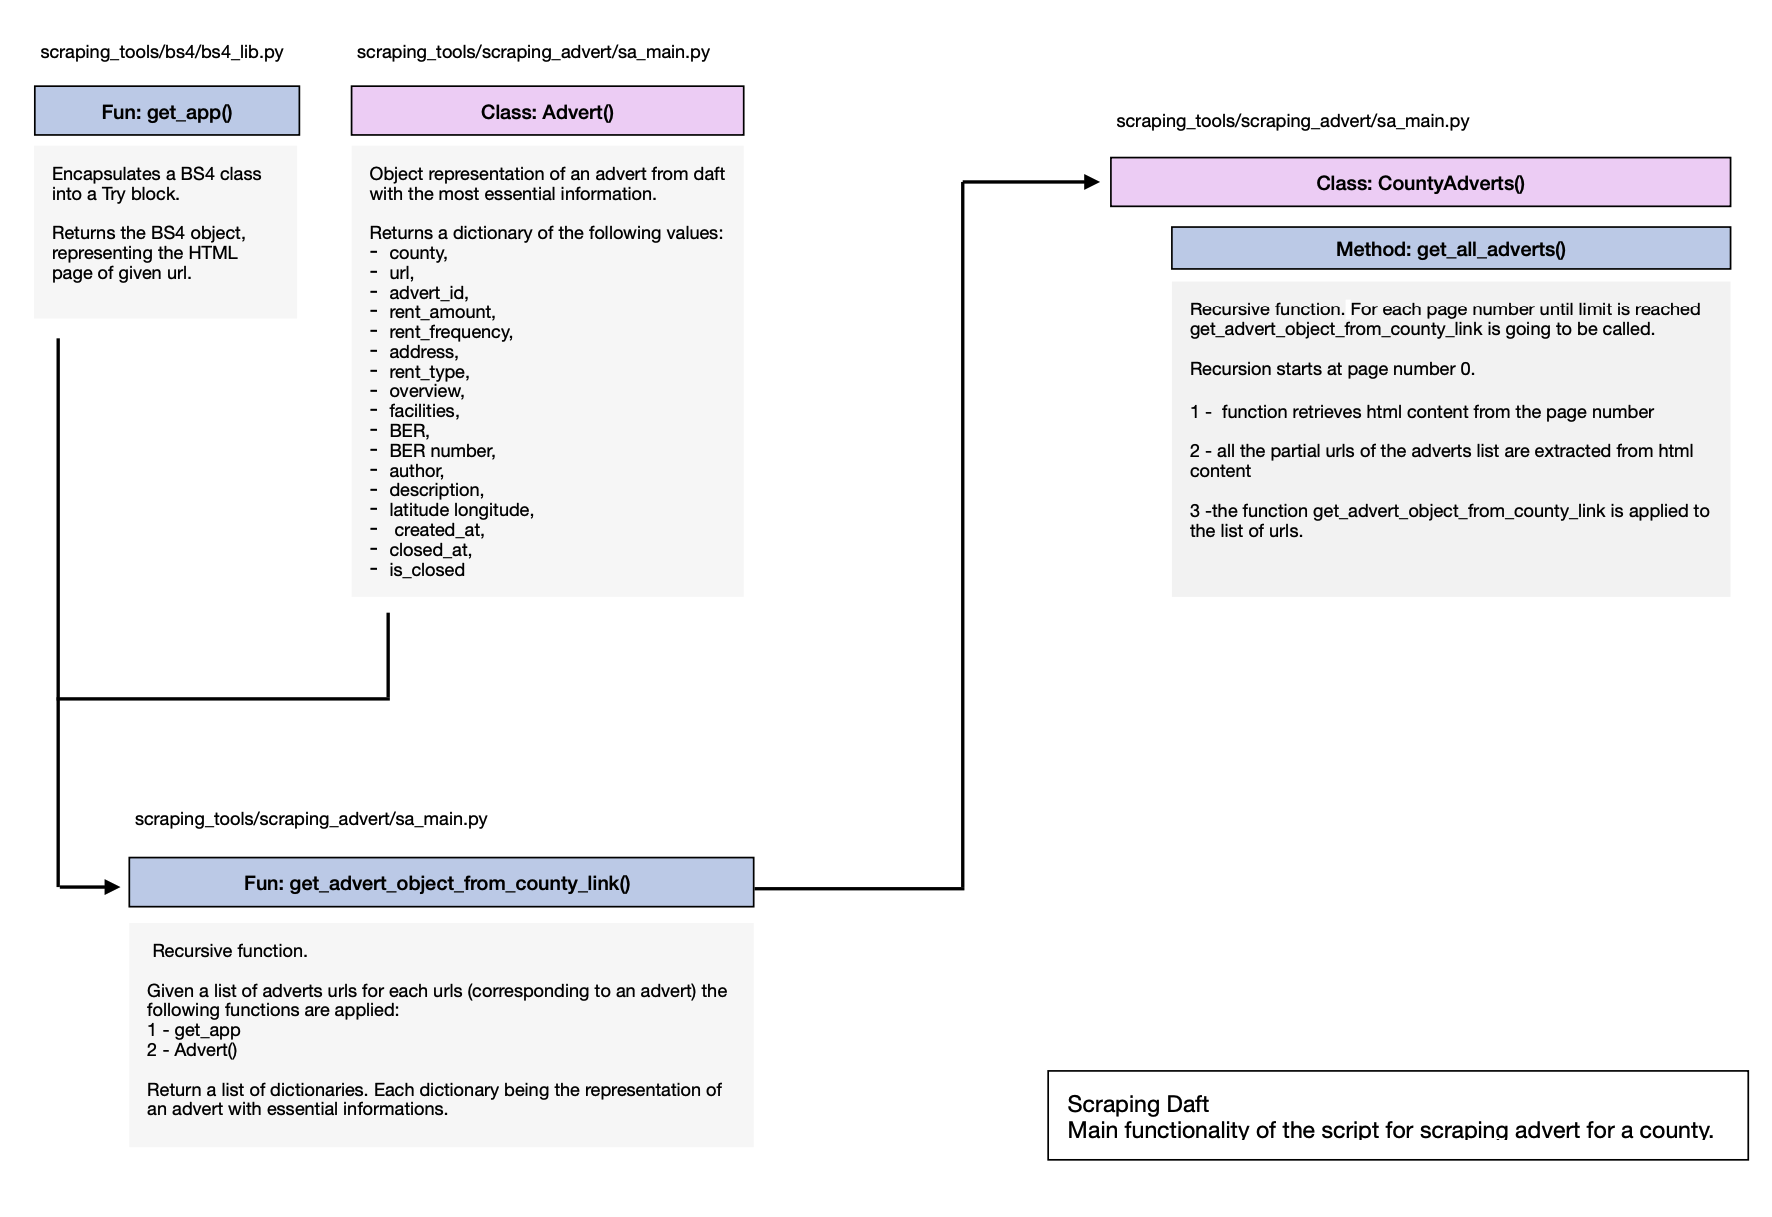
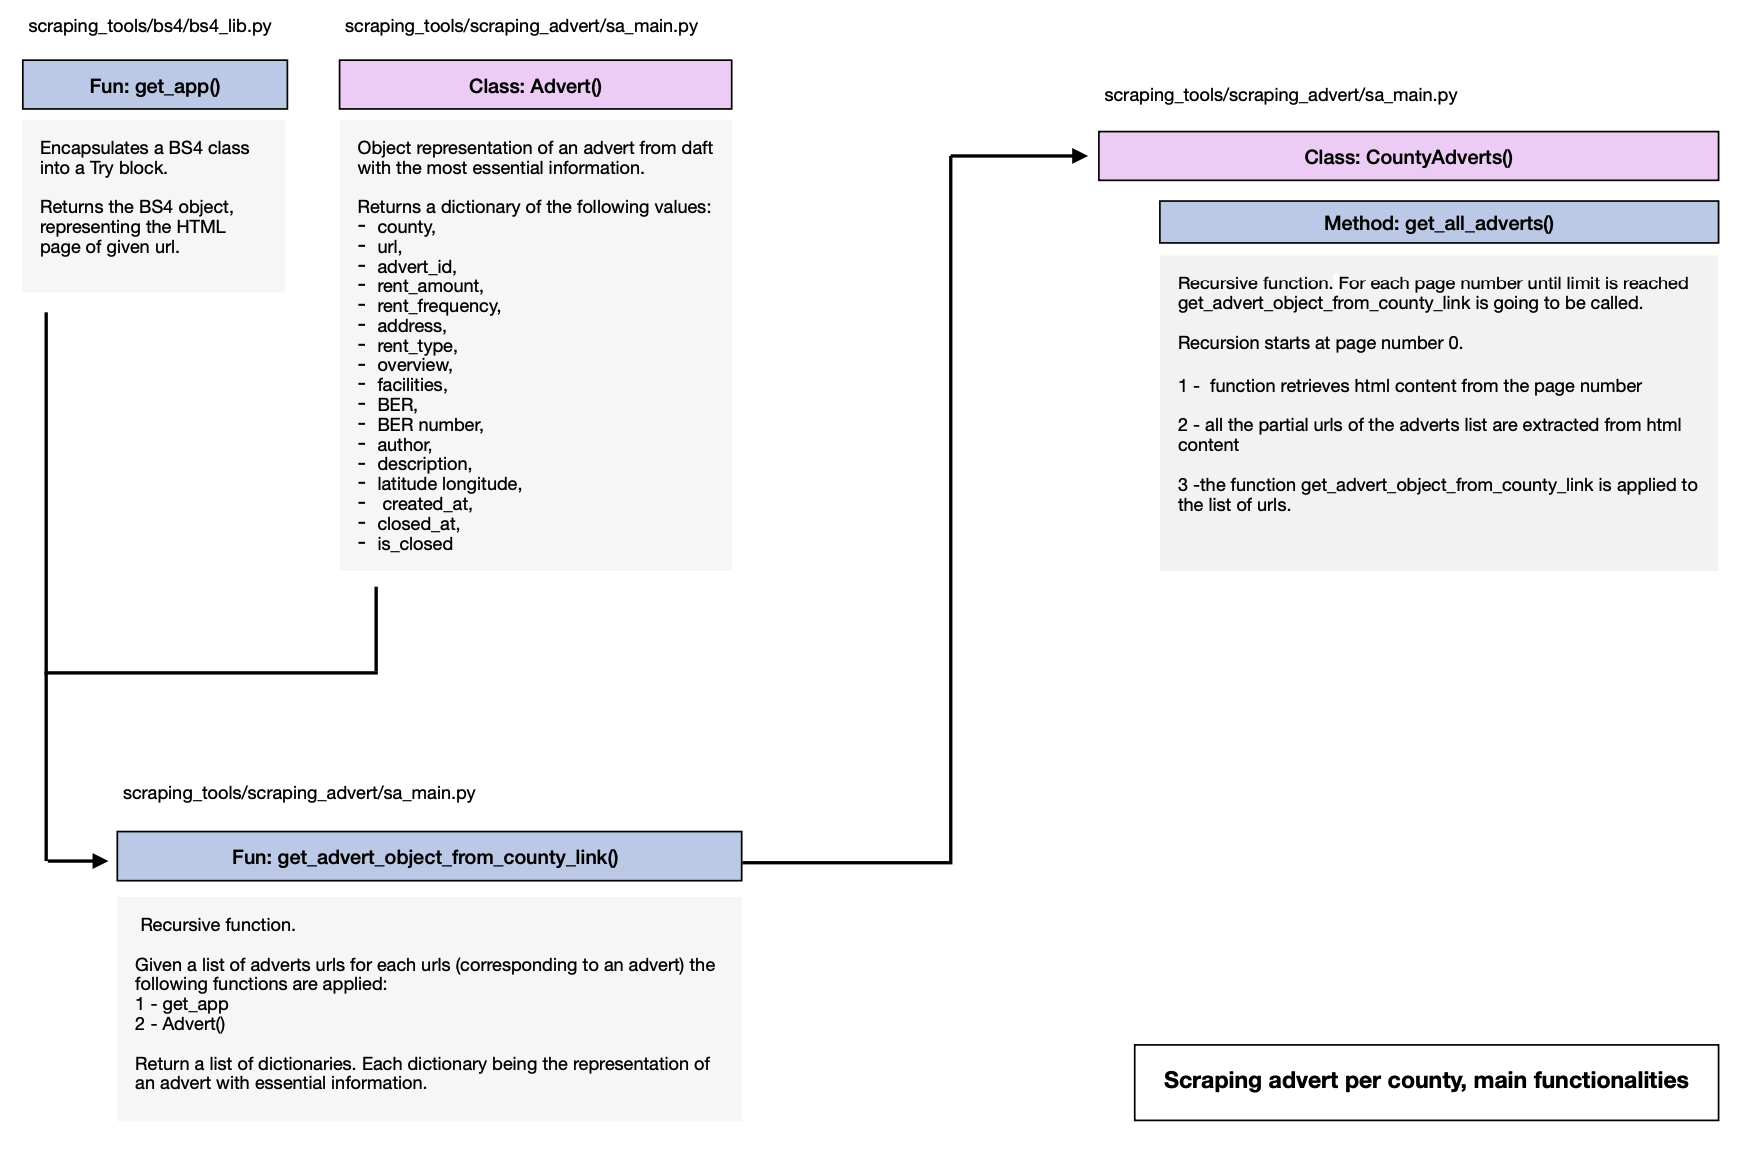
fic: schema small error text, change img

diff --git a/readme.md b/readme.md
@@ -31,6 +31,6 @@ sh kill-project.sh
 
 ## Some Insights
 
-### the script to scrapt advert for a county
+### How scraping the adverts for county works: main functionalities
 
 <img src='./img/scraping_daft_schema.png'>
